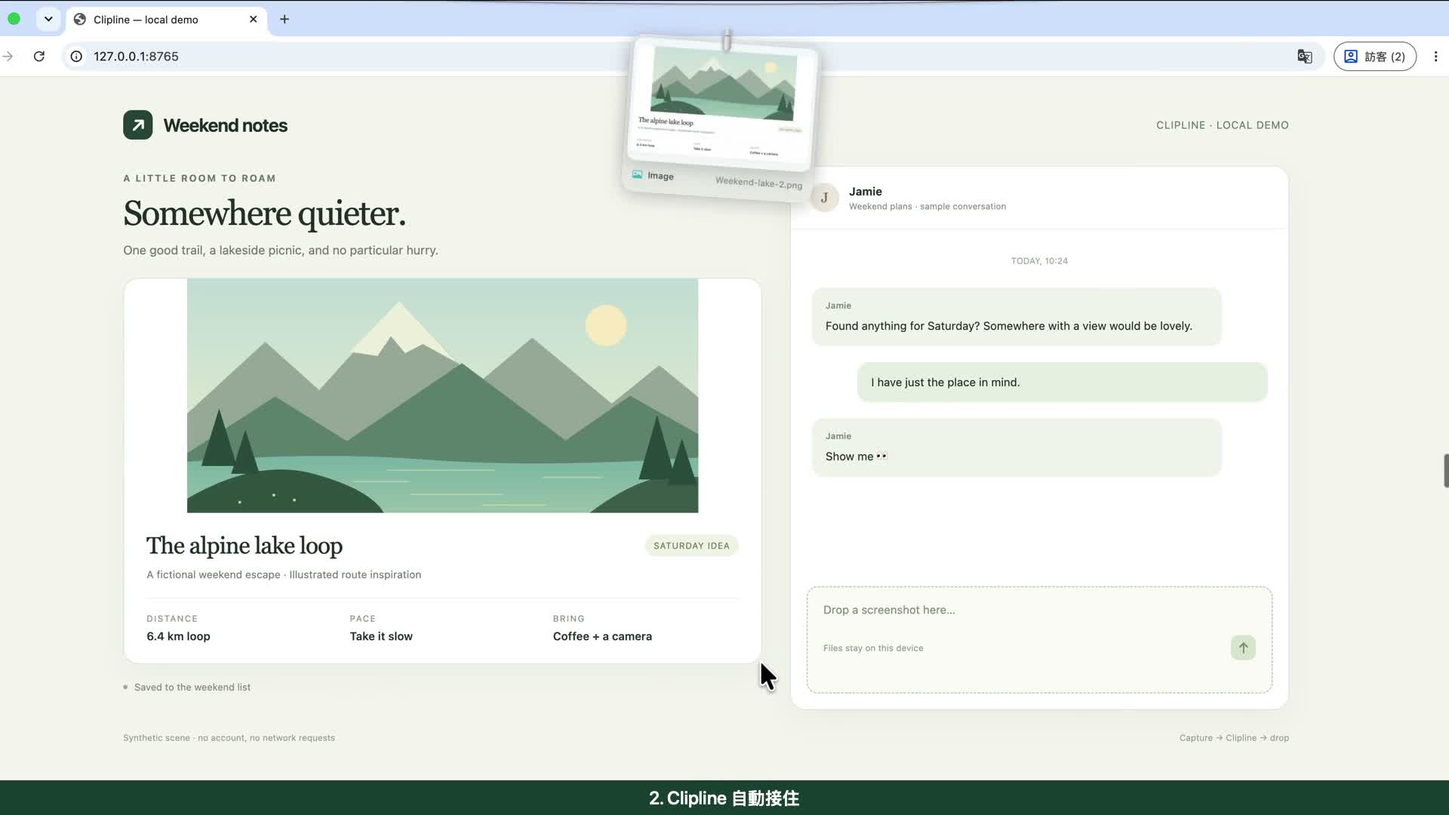
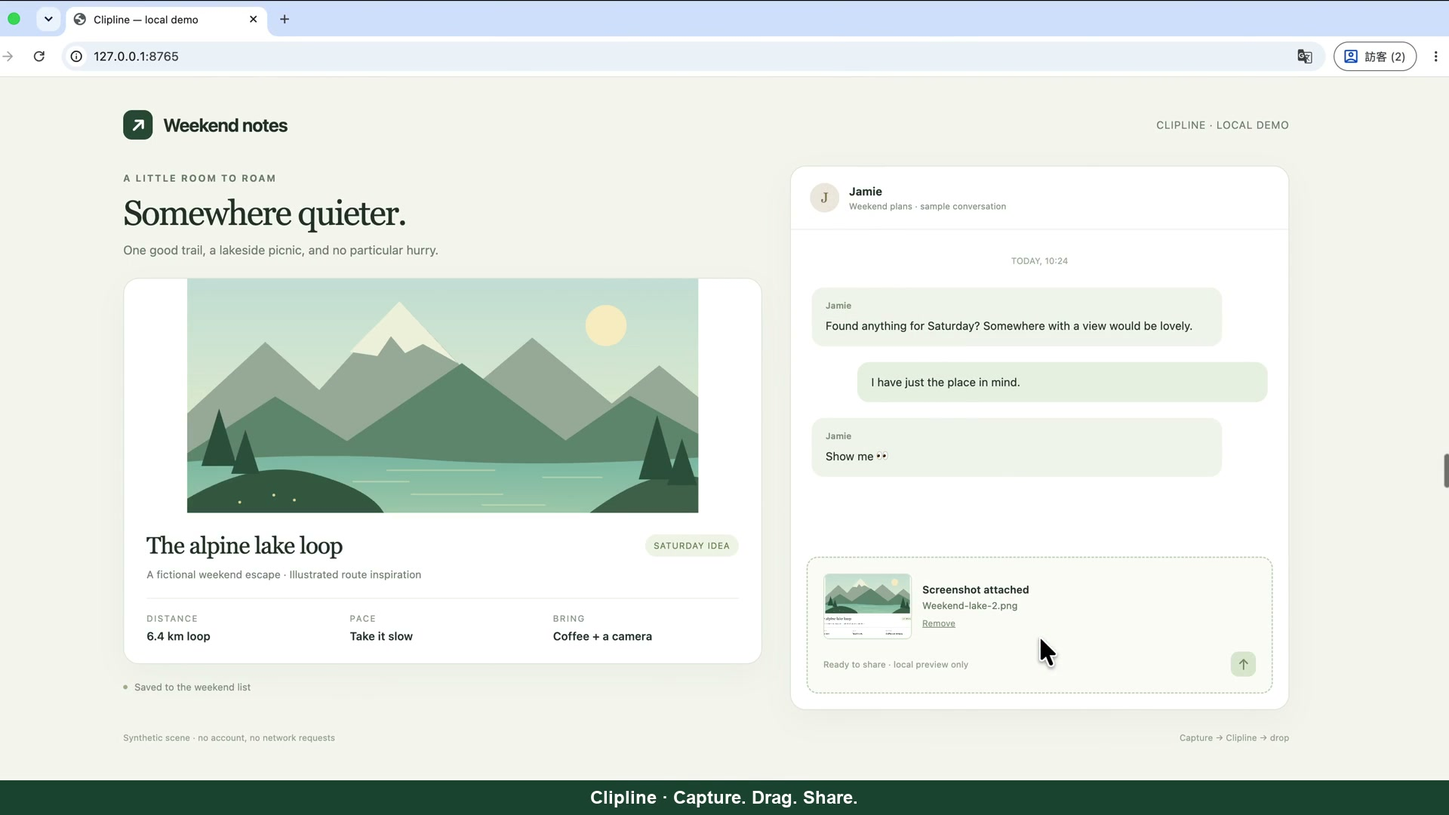
Restrict hover activation to the notch and publish English docs

diff --git a/Tests/TendederoTests/HoverTriggerTests.swift b/Tests/TendederoTests/HoverTriggerTests.swift
@@ -1,0 +1,61 @@
+import XCTest
+@testable import Tendedero
+
+final class HoverTriggerTests: XCTestCase {
+    private let screen = CGRect(x: 0, y: 0, width: 1728, height: 1117)
+
+    private func notchRegion() -> CGRect {
+        HoverTrigger.region(on: screen, menuBarHeight: 33,
+                            topLeftArea: CGRect(x: 0, y: 1085, width: 771, height: 32),
+                            topRightArea: CGRect(x: 956, y: 1085, width: 772, height: 32))
+    }
+
+    func testHardwareNotchTriggersButBothMenuBarSidesDoNot() {
+        let region = notchRegion()
+        XCTAssertEqual(region.width, 185)
+        XCTAssertTrue(HoverTrigger.contains(CGPoint(x: 864, y: 1100), in: region))
+        for x in [50.0, 770.9, 956.0, 1650.0] {
+            XCTAssertFalse(HoverTrigger.contains(CGPoint(x: x, y: 1100), in: region))
+        }
+    }
+
+    func testExactTopEdgeAndSmallLowerLipAreReachable() {
+        let region = notchRegion()
+        XCTAssertTrue(HoverTrigger.contains(CGPoint(x: 864, y: screen.maxY), in: region))
+        XCTAssertTrue(HoverTrigger.contains(CGPoint(x: 864, y: 1078), in: region))
+        XCTAssertFalse(HoverTrigger.contains(CGPoint(x: 864, y: 1077.9), in: region))
+        XCTAssertFalse(HoverTrigger.contains(CGPoint(x: 864, y: screen.maxY + 0.1), in: region))
+    }
+
+    func testDisplayWithoutNotchUsesOnlySmallCenteredArea() {
+        let region = HoverTrigger.region(on: screen, menuBarHeight: 24)
+        XCTAssertEqual(region.width, 180)
+        XCTAssertEqual(region.midX, screen.midX)
+        XCTAssertTrue(HoverTrigger.contains(CGPoint(x: 864, y: 1117), in: region))
+        XCTAssertFalse(HoverTrigger.contains(CGPoint(x: 600, y: 1117), in: region))
+    }
+
+    func testSecondaryDisplayUsesItsOwnOriginAndCenter() {
+        let display = CGRect(x: -1920, y: 1117, width: 1920, height: 1080)
+        let region = HoverTrigger.region(on: display, menuBarHeight: 24)
+        XCTAssertTrue(HoverTrigger.contains(CGPoint(x: -960, y: 2197), in: region))
+        XCTAssertFalse(HoverTrigger.contains(CGPoint(x: 864, y: 1117), in: region))
+    }
+
+    func testInvalidAuxiliaryAreasCannotMakeWholeBarHot() {
+        let region = HoverTrigger.region(on: screen, menuBarHeight: 33,
+                                         topLeftArea: CGRect(x: 0, y: 1085, width: 100, height: 32),
+                                         topRightArea: CGRect(x: 1600, y: 1085, width: 128, height: 32))
+        XCTAssertEqual(region.width, 180)
+        XCTAssertEqual(region.midX, screen.midX)
+    }
+
+    func testNarrowEntranceKeepsExistingUpperThirdExitRule() {
+        var reveal = HoverReveal()
+        reveal.start(on: screen)
+        let outsideNotchButInsideUpperThird = CGPoint(x: 50, y: 1000)
+        XCTAssertFalse(HoverTrigger.contains(outsideNotchButInsideUpperThird, in: notchRegion()))
+        XCTAssertFalse(reveal.shouldRetract(pointer: outsideNotchButInsideUpperThird))
+        XCTAssertTrue(reveal.shouldRetract(pointer: CGPoint(x: 864, y: 700)))
+    }
+}

diff --git a/Sources/Tendedero/HoverReveal.swift b/Sources/Tendedero/HoverReveal.swift
@@ -1,5 +1,34 @@
 import Foundation
 
+/// A small top-center entrance, independent of the larger keep-open region.
+enum HoverTrigger {
+    static func region(on screen: CGRect, menuBarHeight: CGFloat,
+                       topLeftArea: CGRect? = nil, topRightArea: CGRect? = nil) -> CGRect {
+        let fallbackWidth = min(180, screen.width)
+        var minX = screen.midX - fallbackWidth / 2
+        var maxX = minX + fallbackWidth
+        if let left = topLeftArea, let right = topRightArea {
+            let gap = right.minX - left.maxX
+            // The auxiliary areas flank a real camera housing. Ignore missing
+            // or inconsistent geometry instead of turning the whole bar hot.
+            if gap > 0, gap <= screen.width / 3,
+               left.maxX >= screen.minX, right.minX <= screen.maxX,
+               left.maxX <= screen.midX, right.minX >= screen.midX {
+                minX = left.maxX
+                maxX = right.minX
+            }
+        }
+        // A small lip below the menu bar makes the notch easy to reach.
+        let height = min(screen.height, max(1, menuBarHeight) + 6)
+        return CGRect(x: minX, y: screen.maxY - height, width: maxX - minX, height: height)
+    }
+
+    static func contains(_ pointer: CGPoint, in region: CGRect) -> Bool {
+        pointer.x >= region.minX && pointer.x < region.maxX
+            && pointer.y >= region.minY && pointer.y <= region.maxY
+    }
+}
+
 /// A hover reveal stays open anywhere in the upper third of its display.
 /// Other reveal modes do not inherit this pointer-based dismissal rule.
 struct HoverReveal {

diff --git a/Sources/Tendedero/AppDelegate.swift b/Sources/Tendedero/AppDelegate.swift
@@ -451,15 +451,18 @@ final class AppDelegate: NSObject, NSApplicationDelegate, NSMenuDelegate {
         let screenUnderPointer = NSScreen.screens.first { NSMouseInRect(mouse, $0.frame, false) }
         let inMenuBar = screenUnderPointer.map { Self.menuBarBand(of: $0).contains(mouse) } ?? false
         let inRevealZone = screenUnderPointer.map {
-            Self.menuBarBand(of: $0).insetBy(dx: 0, dy: -6).contains(mouse)
+            let region = HoverTrigger.region(on: $0.frame,
+                                             menuBarHeight: Self.menuBarBand(of: $0).height,
+                                             topLeftArea: $0.auxiliaryTopLeftArea,
+                                             topRightArea: $0.auxiliaryTopRightArea)
+            return HoverTrigger.contains(mouse, in: region)
         } ?? false
         if !inRevealZone { hoverBlockedUntilExit = false }
         if !inMenuBar { menuBarSuppressed = false }
 
         guard isRevealed else {
-            // Resting in the menu bar brings the line down on that screen.
-            // Pushing against the top edge is part of it, and it also works
-            // when another display sits above and the pointer never stops.
+            // Only the notch (or a small top-center area without a notch)
+            // brings the line down. The rest of the menu bar stays ordinary.
             if let screen = screenUnderPointer, inRevealZone, !menuBarSuppressed, !hoverBlockedUntilExit {
                 let since = hotZoneSince ?? now
                 hotZoneSince = since

diff --git a/README.md b/README.md
@@ -1,46 +1,47 @@
 # Clipline
 
-<img src="docs/clipline-icon.png" alt="Clipline 圖示" width="96">
+<img src="docs/clipline-icon.png" alt="Clipline icon" width="96">
 
-我的 macOS 截圖與剪貼簿浮層定制版，基於 [Alejandro Buján 的 Tendedero](https://github.com/alejandrobujan/tendedero) 1.0.0。Clipline 是獨立改版，使用自己的名稱和圖示。
+A customized macOS screenshot and clipboard shelf, based on [Alejandro Buján's Tendedero](https://github.com/alejandrobujan/tendedero) 1.0.0. Clipline is an independent modified build with its own name and icon.
 
-**[下載安裝包](https://github.com/a2289866844/clipline/releases/latest)** · macOS 14 或更新版本 · Apple Silicon / Intel 通用版
+**[Download the installer](https://github.com/a2289866844/clipline/releases/latest)** · macOS 14 or later · Universal app for Apple Silicon and Intel
 
-## 安裝與使用
+## Install and use
 
-1. 在 Releases 下載 `Clipline-1.1.2-universal.dmg`。
-2. 打開磁碟映像，把 `Clipline.app` 拖到 `Applications`，再啟動。
-3. 如果 macOS 阻擋開啟，到「系統設定 → 隱私權與安全性」，找到 Clipline 的提示並按「強制打開 / Open Anyway」。這個分享版採用 ad-hoc 簽章，未經 Apple 公證；[Apple 開啟說明](https://support.apple.com/guide/mac-help/mh40616/mac)。
-4. 依 macOS 提示允許存取截圖所在資料夾。頂端選單列的迴紋針是 Clipline。
+1. Download `Clipline-1.1.3-universal.dmg` from Releases.
+2. Open the disk image, drag `Clipline.app` to `Applications`, and launch it.
+3. If macOS blocks the app, open **System Settings → Privacy & Security**, find the Clipline notice, and choose **Open Anyway**. This shared build uses an ad-hoc signature and is not notarized by Apple. See [Apple's opening instructions](https://support.apple.com/guide/mac-help/mh40616/mac).
+4. Allow access to your screenshot folder when macOS asks; an update may prompt again. The paperclip in the menu bar is Clipline.
 
-1.1.2 起，首次設定時若截圖原本存到桌面，Clipline 會自動建立 **桌面／截圖** 資料夾（非中文系統為 **Screenshots**），讓新截圖直接存入，退出 App 後仍保留這個設定。已有自訂儲存位置會沿用；之後手動改變位置也會尊重你的選擇。舊截圖不搬動，從浮層移除這個資料夾的卡片也不會刪除原檔案。
+Since 1.1.2, if screenshots are saved directly to Desktop during initial setup, Clipline creates a **Desktop/Screenshots** folder and directs new screenshots there. On Chinese-language systems, the folder is named **截圖**. This setting remains after quitting the app. Existing custom locations are preserved, and later manual changes are respected. Old screenshots are not moved; removing a card for this folder from the shelf does not delete its original file.
 
-按 **Control + Option + T** 顯示或隱藏浮層。**單擊卡片開啟內容**；要複製，請按右鍵選 **Copy**。拖到其他 App 可分享：圖片與檔案以檔案傳遞，文字以完整文字傳遞，連結以 URL 傳遞。文字卡片只顯示摘要，複製與拖曳保留全文。圖片或檔案拖到資料夾時，目的地可選擇移動；完成移動後卡片從浮層移除。
+Press **Control + Option + T** to show or hide the shelf. **Click a card to open its contents**; to copy it, right-click and choose **Copy**. Drag cards into other apps to share them: images and files are delivered as files, text as its full contents, and links as URLs. Text cards show a summary, but copying and dragging preserve the full text. When dragging an image or file into a folder, the destination can choose to move it; a completed move removes its card from the shelf.
 
-1.1.0 的 **Hang copied items** 預設開啟，會將新複製的圖片、文字、HTTP(S) 連結與檔案放到浮層；可在選單列隨時關閉，暫停收集。Clipline 會略過帶有受保護剪貼簿標記的內容，但無法辨識所有密碼或機密資料；複製敏感內容前可先暫停。浮層內容在本機保存並於重啟後還原；由剪貼簿產生的圖片、文字和連結存於 `~/Library/Application Support/Clipline/Clipboard`，外部檔案卡片則保留原檔案參照。
+**Hang copied items**, introduced in 1.1.0, is enabled by default. It adds newly copied images, text, HTTP(S) links, and files to the shelf. Turn it off in the menu bar to pause collection. Clipline skips content carrying protected clipboard markers, but cannot identify every password or confidential item; pause collection before copying sensitive content. Shelf contents are saved locally and restored after restarting. Clipboard-generated images, text, and links are stored in `~/Library/Application Support/Clipline/Clipboard`; external file cards retain references to their original files.
 
-這是有限容量的暫存架：依螢幕寬度提供 **3–12 個位置**，滿載時最舊卡片會掉落，並非無限剪貼簿歷史。卡片高度一致；圖片完整縮放到卡片內，保留比例而不裁切。
+The shelf has a limited capacity of **3–12 slots**, depending on screen width. When full, the oldest card drops off; this is a temporary shelf with limited capacity. Cards have a consistent height, and images fit fully inside them with their aspect ratio preserved and no cropping.
 
-初次啟動會詢問是否接管截圖儲存位置，你可以選擇「Not now」。
+On first launch, Clipline asks whether to manage your screenshot location. You can choose **Not now**.
 
-啟用 **Handle screenshots** 會把新截圖存到 `~/Library/Application Support/Clipline/Screenshots`，並關閉 macOS 浮動縮圖；關閉該選項或正常退出時恢復先前設定。接管模式下，圖片角落的叉會將其檔案送到垃圾桶。請避免和其他會接管截圖設定的工具同時啟用這項功能。
+Enabling **Handle screenshots** saves new screenshots to `~/Library/Application Support/Clipline/Screenshots` and disables macOS floating thumbnails. Turning this option off or quitting normally restores your previous settings. In this mode, clicking the cross on an image sends its file to Trash. Avoid enabling this feature alongside another tool that also manages screenshot settings.
 
-如果保留 macOS「顯示浮動縮圖」，截圖可能要等右下角縮圖消失、檔案存妥後才出現在 Clipline。要保留原本的儲存位置又立即顯示，按 **Command + Shift + 5 → 選項**，取消 **顯示浮動縮圖**；Clipline 自己的新內容預覽仍維持 3 秒。
+If macOS **Show Floating Thumbnail** is enabled, a screenshot may appear in Clipline only after the bottom-right thumbnail disappears and the file is saved. To keep your existing save location while showing screenshots promptly, press **Command + Shift + 5 → Options** and disable **Show Floating Thumbnail**. Clipline's own new-item preview still lasts 3 seconds.
 
-## 這個版本的操作規則
+## Shelf behavior
 
-- 熱區停留約 **0.08 秒**即可召喚，彈出動畫更快，熱區也稍微放寬。
-- 滑鼠召喚後，在該螢幕的**整個頂部三分之一**範圍內保持顯示；離開便收起。
-- **新截圖或剪貼簿內容無人操作時顯示 3 秒**，下一項新內容重新計時；按住卡片、拖曳或開啟右鍵選單時延後收起，等操作結束再處理。滑鼠停在熱區時，收起後需要先移開才能再次召喚。
-- 快捷鍵或選單手動召喚會保持開啟，滑鼠進入浮層再離開後，等待 **5 秒**收起。
-- 切換 App 或桌面不重置收起倒數，支援全螢幕 Space。
-- 圖片卡片加大，並修正頂部邊界反覆彈出與收起的問題。長按圖片可開啟 Markup；其他類型沒有長按操作。
-- 修正截圖列滿載時新截圖不自動顯示、重啟時列表被截短，以及未寫完的圖片被永久漏掉等問題。
-- 1.1.1 修正桌面截圖缺少 macOS 延伸屬性時被略過的問題，亦辨識圖片內的截圖標記；一般桌面圖片仍不會自動加入。
+- Hover over the MacBook's notch to reveal the shelf. Moving across the rest of the menu bar does not open it. Displays without a notch use a centered **180-point** region at the top.
+- Staying in the reveal region for about **0.08 seconds** opens the shelf.
+- After a hover reveal, the shelf stays open throughout the display's **upper third** and closes when the pointer leaves that area.
+- **New screenshots or clipboard items preview for 3 seconds** when idle. Each new item restarts the timer. Holding a card, dragging, or using its context menu postpones dismissal until the interaction ends. If the pointer remains in the reveal region when the shelf closes, move it away before revealing again.
+- A shelf opened with the shortcut or menu stays open until the pointer enters and then leaves it; it closes **5 seconds** after that departure.
+- Switching apps or desktops does not reset the dismissal timer. Full-screen Spaces are supported.
+- Image cards are enlarged, and repeated opening and closing at the top edge has been fixed. Press and hold an image to open Markup; other card types have no long-press action.
+- Fixes cover new screenshots failing to reveal a full shelf, truncated lists after restarting, and images being permanently missed before they finish writing.
+- Since 1.1.1, Desktop screenshots are recognized using either macOS extended attributes or screenshot markers inside the image. Ordinary Desktop images are not automatically added.
 
-## 從原始碼構建
+## Build from source
 
-需要 macOS 的 Swift 工具鏈（Xcode 或 Command Line Tools）。
+Requires the macOS Swift toolchain, provided by Xcode or Command Line Tools.
 
 ```sh
 git clone --branch personal https://github.com/a2289866844/clipline.git
@@ -50,20 +51,22 @@ scripts/build-app.sh
 open build/Clipline.app
 ```
 
-`scripts/make-dmg.sh` 構建並輸出 DMG、ZIP 及 SHA-256 校驗檔。`personal` 是分享版分支；保留的 `main` 是上游基線，其他 `fix/*` 分支用於獨立上游 PR。
+`scripts/make-dmg.sh` builds the app and produces a DMG, ZIP, and SHA-256 checksum file. `personal` is the shared-build branch; `main` retains the upstream baseline, and separate `fix/*` branches are used for upstream pull requests.
 
-## 驗證與來源
+## Verification
 
-回歸測試涵蓋顯示區域邊界、預覽時間、容量與還原、剪貼簿內容與儲存，以及點擊和拖曳資料格式。發布驗證需要另外檢查 arm64 / x86_64 通用 App、簽章與安裝包；自動測試不等同於所有顯示器、全螢幕 App 或實際拖放組合都已人工驗證。
+Regression tests cover display-region boundaries, preview timing, capacity and restoration, clipboard contents and storage, and click and drag data formats. Release verification also requires checking the universal arm64/x86_64 app, signature, and installer. Automated tests do not establish manual verification across every display, full-screen app, or drag-and-drop destination.
 
-## 操作示範與問題回報
+## Demo and bug reports
 
-**13 秒真實原生操作示範：截圖 → Clipline 浮層 → 拖到聊天輸入框。** 點擊預覽可觀看 MP4。
+**13-second native demo: take a screenshot → Clipline shelf → drag into a chat composer.** Click the preview to watch the MP4.
 
-[![Clipline 原生截圖與拖放示範](docs/media/clipline-demo.gif)](https://github.com/a2289866844/clipline/releases/download/clipline-v1.1.0/Clipline-1.1.0-demo.mp4)
+[![Clipline native screenshot and drag-and-drop demo](docs/media/clipline-demo.gif)](https://github.com/a2289866844/clipline/releases/download/clipline-v1.1.3/Clipline-1.1.3-demo.mp4)
 
-示範使用合成旅遊內容與本機聊天輸入框，實際接收原生拖放的圖片檔案，不會透過網路上傳或傳送。錄製的是與正式 App 相同原始碼、使用獨立儲存資料夾的驗證版；詳見 [示範說明](docs/demo.md)。
+The demo uses synthetic travel content and a local chat composer that receives the actual image file through native drag and drop. Nothing is uploaded or sent over the network. The recording uses a verification build compiled from the same app sources with separate storage folders. See [the demo notes](docs/demo.md).
 
-遇到問題可到 [GitHub Issues](https://github.com/a2289866844/clipline/issues) 回報，附上 macOS 與 Clipline 版本、重現步驟、預期與實際結果。分享截圖或錄影前請先移除私人內容。
+Report problems through [GitHub Issues](https://github.com/a2289866844/clipline/issues), including your macOS and Clipline versions, steps to reproduce, expected behavior, and actual behavior. Remove private content before sharing screenshots or recordings.
 
-保留上游的 MIT 原始碼授權與作者署名，見 [LICENSE](LICENSE)。原版名稱和圖示不包含在授權中，本版本的圖示由自己的腳本繪製。Swift target 和目錄名稱沿用 `Tendedero`，方便追蹤上游；發行的 App 名稱、Bundle ID、偏好設定和截圖儲存資料夾使用 Clipline。
+## Attribution and license
+
+The upstream MIT source-code license and author attribution are preserved in [LICENSE](LICENSE). The original name and icon are not included in that license; this build's icon is drawn by its own script. The Swift target and source directory retain the name `Tendedero` to help track upstream changes. The released app name, bundle ID, preferences, and screenshot storage folders use Clipline.

diff --git a/docs/releases/1.1.0.md b/docs/releases/1.1.0.md
@@ -1,15 +1,15 @@
 # Clipline 1.1.0
 
-Clipline 的浮層現在可暫存新截圖，以及新複製的圖片、純文字、HTTP(S) 連結與檔案參照。這些是支援的內容類型，不代表保留所有 App 的每種剪貼簿格式。
+The Clipline shelf now holds new screenshots and newly copied images, plain text, HTTP(S) links, and file references. These content types are supported; not every clipboard format from every app is preserved.
 
-- 單擊卡片開啟；右鍵選 Copy 複製。拖曳時，圖片與檔案以檔案傳遞，文字保留全文，連結以 URL 傳遞。長按 Markup 僅適用於圖片。
-- 卡片高度一致，圖片保留比例完整顯示。依螢幕寬度提供 3–12 個位置，滿載時最舊卡片掉落，屬於有限容量的暫存架。
-- 內容在本機保存並於重啟後還原。剪貼簿產生的副本存於 `~/Library/Application Support/Clipline/Clipboard`；外部檔案參照移除卡片時保留原檔案。
-- 新內容無人操作時預覽 3 秒；按住、拖曳或右鍵選單操作期間延後收起。滑鼠召喚後在螢幕頂部三分之一保持顯示；手動召喚後，滑鼠離開浮層 5 秒收起。
-- **Hang copied items** 預設開啟，可在選單列關閉以暫停收集。帶有受保護剪貼簿標記的內容會被略過；無法辨識所有機密資料，複製敏感內容前可先暫停。
+- Click a card to open it; right-click and choose Copy to copy it. Dragging delivers images and files as files, preserves the full text, and delivers links as URLs. Press-and-hold Markup is available only for images.
+- Cards have a consistent height and show entire images with their aspect ratio preserved. The shelf has 3–12 slots, depending on screen width; the oldest card drops off when full.
+- Contents are saved locally and restored after restarting. Clipboard-generated copies are stored in `~/Library/Application Support/Clipline/Clipboard`. Removing an external file reference from the shelf preserves its original file.
+- Idle new items preview for 3 seconds; holding a card, dragging, or using a context menu postpones dismissal. After a hover reveal, the shelf stays open throughout the display's upper third. After a manual reveal, it closes 5 seconds after the pointer leaves the shelf.
+- **Hang copied items** is enabled by default and can be disabled in the menu bar to pause collection. Content with protected clipboard markers is skipped. Clipline cannot identify every confidential item; pause collection before copying sensitive content.
 
-本次通過 42 項自動測試。macOS 14+ 的 Apple Silicon / Intel 通用安裝包已檢查雙架構、簽章、DMG / ZIP 完整性與 SHA-256 校驗。App 使用 ad-hoc 簽章，未經 Apple 公證。
+All 42 automated tests passed for this release. The macOS 14+ universal installer for Apple Silicon and Intel was checked for both architectures, signing, DMG / ZIP integrity, and SHA-256 checksums. The app uses an ad-hoc signature and is not notarized by Apple.
 
-已完成原生截圖 → Clipline 浮層 → Chrome 本機聊天輸入框的實際檔案拖放，目的地顯示圖片預覽與「Screenshot attached」。13 秒示範使用相同 App 原始碼及獨立儲存資料夾的驗證版；聊天畫面是合成的本機測試場景，沒有網路上傳，未驗證真正 ChatGPT 的接收操作。
+An actual native file drag was completed from a macOS screenshot through the Clipline shelf into a local chat composer in Chrome. The destination displayed an image preview and “Screenshot attached.” The 13-second demo uses a verification build compiled from the same app sources with separate storage folders. The chat scene is a synthetic local test fixture with no network upload; receiving a file in a real ChatGPT conversation was not verified.
 
-安裝檔：`Clipline-1.1.0-universal.dmg`、`Clipline-1.1.0-universal.zip`。校驗檔：`SHA256SUMS.txt`。問題回報：[GitHub Issues](https://github.com/a2289866844/clipline/issues)。
+Installers: `Clipline-1.1.0-universal.dmg` and `Clipline-1.1.0-universal.zip`. Checksums: `SHA256SUMS.txt`. Bug reports: [GitHub Issues](https://github.com/a2289866844/clipline/issues).

diff --git a/docs/releases/1.1.1.md b/docs/releases/1.1.1.md
@@ -1,15 +1,15 @@
 # Clipline 1.1.1
 
-修正截圖存到桌面後，沒有出現在 Clipline 的問題。
+Fixes screenshots saved to Desktop failing to appear in Clipline.
 
-部分 macOS 截圖沒有 `kMDItemIsScreenCapture` 延伸屬性，而是把 `Screenshot` 標記寫在圖片的 EXIF UserComment。1.1.0 的桌面過濾只檢查前者，因此漏掉這類正常截圖；1.1.1 同時辨識兩種標記，一般桌面圖片仍不會自動加入。
+Some macOS screenshots lack the `kMDItemIsScreenCapture` extended attribute and instead include a `Screenshot` marker in the image's EXIF UserComment. The Desktop filter in 1.1.0 checked only the extended attribute, so it missed those screenshots. Version 1.1.1 recognizes both markers; ordinary Desktop images are still not automatically added.
 
-新圖片的標記若稍晚才寫入，會短暫重試辨識；未完成的截圖也會監看屬性變更。重試有上限，避免一般圖片造成持續輪詢。
+If a new image's marker is written slightly later, Clipline briefly retries recognition. It also watches attribute changes for unfinished screenshots. Retries are bounded to avoid continuously polling ordinary images.
 
-另補充 macOS 浮動縮圖的等待說明：開啟原生縮圖時，截圖可能延後數秒才寫入磁碟，Clipline 要等檔案出現才能接收。可在 Command + Shift + 5 → 選項取消「顯示浮動縮圖」，保留原儲存位置；或使用 Clipline 的 Handle screenshots。1.1.1 不會擅自改動此系統設定。
+The documentation now explains the macOS floating-thumbnail delay: when the native thumbnail is enabled, the screenshot may take several seconds to reach disk, and Clipline must wait for the file. Disable **Show Floating Thumbnail** under **Command + Shift + 5 → Options** to keep your existing save location, or use Clipline's **Handle screenshots** option. Version 1.1.1 does not change this system setting without that option.
 
-驗證：全部 47 項測試通過，包含 5 項新的桌面截圖辨識測試。已在安裝後的正式 App 驗證：相同 macOS 原生截圖方式，舊版未加入、新版成功加入桌面截圖。關閉原生縮圖後，一次本機實測從原生截圖指令開始到加入浮層約 0.35 秒，亦擷取到新卡片的出現動畫；這是單次觀測，並非所有機器的效能保證。先前專用資料夾示範未覆蓋此桌面過濾情境。
+Verification: all 47 tests passed, including 5 new Desktop screenshot-recognition tests. The installed release app was checked with the same native macOS screenshot interaction: the older version missed the Desktop screenshot, and the updated version added it successfully. With the native thumbnail disabled, one local observation measured about 0.35 seconds from starting the native screenshot command to adding the item to the shelf; the new-card animation was also captured. This single observation is not a performance guarantee for every machine. The earlier dedicated-folder demo did not cover the Desktop-filter scenario.
 
-適用於 macOS 14+，包含 Apple Silicon / Intel。分享版仍採 ad-hoc 簽章，未經 Apple 公證。
+Requires macOS 14+ and supports Apple Silicon and Intel. The shared build still uses an ad-hoc signature and is not notarized by Apple.
 
-安裝包：`Clipline-1.1.1-universal.dmg`、`Clipline-1.1.1-universal.zip`。校驗檔：`SHA256SUMS.txt`。
+Installers: `Clipline-1.1.1-universal.dmg` and `Clipline-1.1.1-universal.zip`. Checksums: `SHA256SUMS.txt`.

diff --git a/docs/releases/1.0.1.md b/docs/releases/1.0.1.md
@@ -1,0 +1,27 @@
+# Clipline 1.0.1
+
+Clipline is a personal customized build based on Tendedero 1.0.0. It preserves the original author's attribution and the MIT source-code license, with an independent name and new icon.
+
+## Download and install
+
+- **DMG**: open it and drag Clipline.app to Applications. Suitable for sharing directly with friends.
+- **ZIP**: extract it and place Clipline.app in Applications.
+- Requires macOS 14 or later. The same app includes both Apple Silicon and Intel architectures.
+- The shared build uses an ad-hoc signature and **is not notarized by Apple**. If macOS blocks it, follow [Apple's instructions](https://support.apple.com/guide/mac-help/mh40616/mac): **System Settings → Privacy & Security → Open Anyway**.
+
+## Shelf behavior
+
+- Hover in the reveal region for about 0.08 seconds to open the shelf. Cards are larger and the opening animation is faster.
+- After a hover reveal, the shelf stays open throughout the display's upper third and closes when the pointer leaves that area.
+- New screenshots preview for a fixed 3 seconds. Each new screenshot restarts the timer.
+- Reveal manually using Control + Option + T or the menu. After the pointer enters and then leaves the shelf, it closes 5 seconds later.
+- Switching apps or Spaces does not reset the timer. Full-screen Spaces are supported.
+- Fixes cover repeated opening and closing at the boundary, new screenshots failing to reveal a full shelf, truncated lists after restarting, and images being permanently missed before they finish writing.
+
+Clipline uses separate preferences and `~/Library/Application Support/Clipline/Screenshots`. On first launch, you choose whether it manages your screenshot location. Avoid having Clipline and another screenshot manager control macOS screenshot settings at the same time. In managed mode, clicking the cross on an image sends its file to Trash.
+
+## Verification
+
+All **16 regression tests passed with zero failures** on macOS 26.5.1 / Swift 6.3.3. The arm64 and x86_64 release builds passed. The universal app, signature, mounted DMG contents, ZIP contents, and SHA-256 checksums were checked successfully. The app was launched and its new name, icon, and first-launch prompt were inspected. Manual testing did not cover every combination of full-screen apps, multiple displays, and pointer interactions. The app was not run on Intel hardware.
+
+Full documentation and build instructions: [README](https://github.com/a2289866844/clipline/blob/personal/README.md). Original project: [Tendedero](https://github.com/alejandrobujan/tendedero). This build is not released or endorsed by the original author.

diff --git a/docs/demo.md b/docs/demo.md
@@ -4,9 +4,9 @@ This scene contains only synthetic travel content and a sample conversation. The
 
 Verified on 2026-10-10: a native macOS screen-region capture appeared on the real Clipline shelf, then an actual `NSDraggingSession` delivered `Weekend-lake-2.png` into this fixture in Chrome. The destination displayed “Screenshot attached” and an image preview. This confirms the native file-drag path into the local browser fixture; receiving a file in a real ChatGPT conversation was not tested.
 
-The recording uses a native verification host compiled from the same current App sources, with a dedicated screenshot folder, a separate clipboard folder, and isolated shelf preferences. The host uses the actual screenshot watcher, shelf UI, and drag handlers. It does not read Desktop or change system screenshot preferences. A user-authorized mouse-event script completed the native drag because CUA could not drag from the floating `NSPanel`; that one-off helper remains outside the committed source.
+The recording uses a native verification host compiled from the same 1.1.0 app sources, with a dedicated screenshot folder, a separate clipboard folder, and isolated shelf preferences. The host uses the actual screenshot watcher, shelf UI, and drag handlers. It does not read Desktop or change system screenshot preferences. A user-authorized mouse-event script completed the native drag because CUA could not drag from the floating `NSPanel`; that one-off helper remains outside the committed source.
 
-The 13-second release demo is edited from the actual recording: the initial Space transition is omitted, playback runs at 80% speed, and captions plus a final hold make the attachment visible. No attachment or shelf behavior is simulated. The preview is in [`media/clipline-demo.gif`](media/clipline-demo.gif); the full MP4 is a release asset.
+The 13-second release demo is edited from the actual recording: the initial Space transition is omitted, playback runs at 80% speed, and captions plus a final hold make the attachment visible. No attachment or shelf behavior is simulated. The 1.1.3 demo asset reuses that original recording with English captions; it does not demonstrate the later notch activation change. The preview is in [`media/clipline-demo.gif`](media/clipline-demo.gif); the full MP4 is a release asset.
 
 Start the page from the repository root:
 

diff --git a/docs/releases/1.1.2.md b/docs/releases/1.1.2.md
@@ -1,12 +1,12 @@
 # Clipline 1.1.2
 
-新增桌面截圖資料夾：首次設定時，若 macOS 原本把截圖存到桌面，Clipline 會自動建立「桌面／截圖」（非中文系統為 Screenshots），讓之後的截圖直接存入，保持桌面整齊。
+Adds a Desktop screenshot folder. During initial setup, if macOS saves screenshots directly to Desktop, Clipline creates **Desktop/Screenshots** and directs new screenshots there to keep Desktop tidy. On Chinese-language systems, the folder is named **截圖**.
 
-- 已有自訂儲存位置會沿用，包括暫時不存在的目的地；之後手動改回桌面或其他位置也不會被覆寫。
-- 退出 Clipline 後仍保留這個儲存位置；若正在使用的受管理資料夾被移除，下次啟動會重新建立。
-- 舊截圖不搬動。這個資料夾與私有的 Handle screenshots 收件匣分開，從浮層移除卡片或容量淘汰不會刪除這裡的原檔案。
-- 沿用原本的 macOS 浮動縮圖設定。若需要立即顯示，可在 Command + Shift + 5 → 選項取消「顯示浮動縮圖」。
+- Existing custom locations are preserved, including destinations that are temporarily unavailable. Later manual changes back to Desktop or another location are not overwritten.
+- The save location remains after quitting Clipline. If the managed folder currently in use is removed, it is recreated on the next launch.
+- Old screenshots are not moved. This folder is separate from the private **Handle screenshots** inbox; removing its cards or evicting them when the shelf is full does not delete the original files.
+- The existing macOS floating-thumbnail setting is preserved. For prompt display, disable **Show Floating Thumbnail** under **Command + Shift + 5 → Options**.
 
-全部 52 項自動測試通過，涵蓋資料夾建立失敗、既有自訂位置、資料夾重新建立及保留舊檔案。
+All 52 automated tests passed, covering folder-creation failure, existing custom locations, folder recreation, and preservation of old files.
 
-macOS 14+，Apple Silicon / Intel 通用版。分享版採 ad-hoc 簽章，未經 Apple 公證。
+Requires macOS 14+. Universal app for Apple Silicon and Intel. The shared build uses an ad-hoc signature and is not notarized by Apple.

diff --git a/docs/releases/1.1.3.md b/docs/releases/1.1.3.md
@@ -1,0 +1,18 @@
+# Clipline 1.1.3
+
+Hover reveal now uses only the MacBook notch's width at the top of the display, detected from its hardware boundaries. Moving across other parts of the menu bar no longer opens the shelf. Displays without a notch use a centered 180-point region at the top.
+
+The existing interaction rules are preserved:
+
+- Hover for about **0.08 seconds** to reveal the shelf.
+- After a hover reveal, the shelf stays open throughout the display's **upper third** and closes when the pointer leaves that area.
+- Idle new items preview for **3 seconds**. Holding a card, dragging, or using a context menu postpones dismissal.
+- After a manual reveal, the shelf closes **5 seconds** after the pointer enters and then leaves it.
+
+The README, installation instructions, release notes, and demo captions are now in English. The 13-second demo demonstrates native file drag and drop into a local browser fixture with no network upload. This English-captioned video reuses the original 1.1.0 recording; it is not a new recording of notch activation.
+
+Verification: all **58 tests passed**, including six notch-region regression tests. A native verification host built from the same 1.1.3 sources was checked with real pointer movement: both sides of the menu bar stayed hidden, the notch center and exact top edge revealed the shelf, movement within the upper third kept it open, and leaving that region retracted it. The universal app signature, DMG, ZIP, and SHA-256 checksums passed validation. Non-notched and secondary-display geometry was covered by automated tests; other physical displays were not exercised.
+
+Requires macOS 14+. Universal app for Apple Silicon and Intel. The shared build uses an ad-hoc signature and is not notarized by Apple. macOS may request screenshot-folder access again after an update; allow it to resume collecting screenshots.
+
+Installers: `Clipline-1.1.3-universal.dmg` and `Clipline-1.1.3-universal.zip`. Checksums: `SHA256SUMS.txt`.
